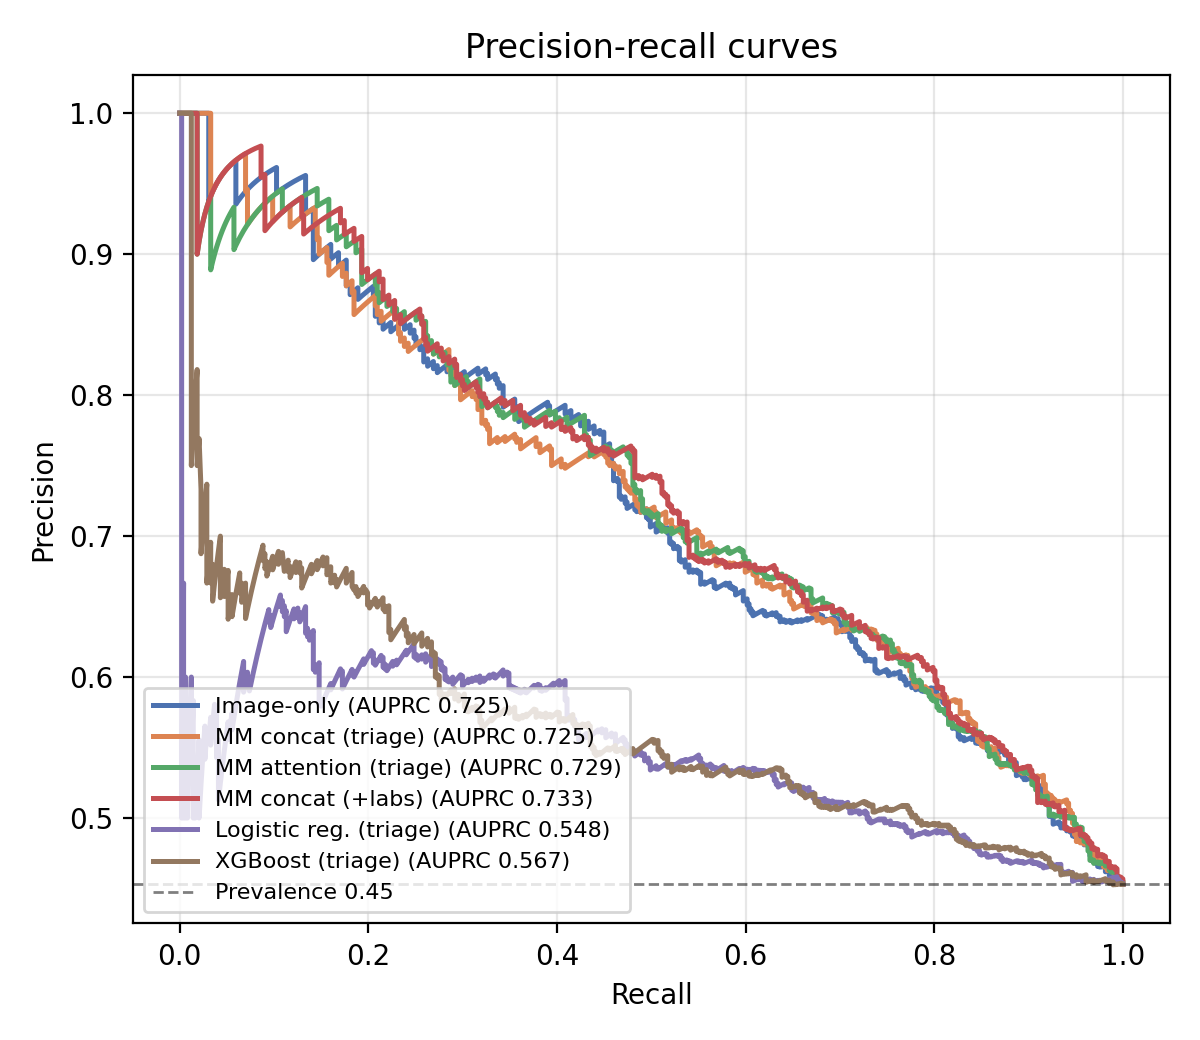
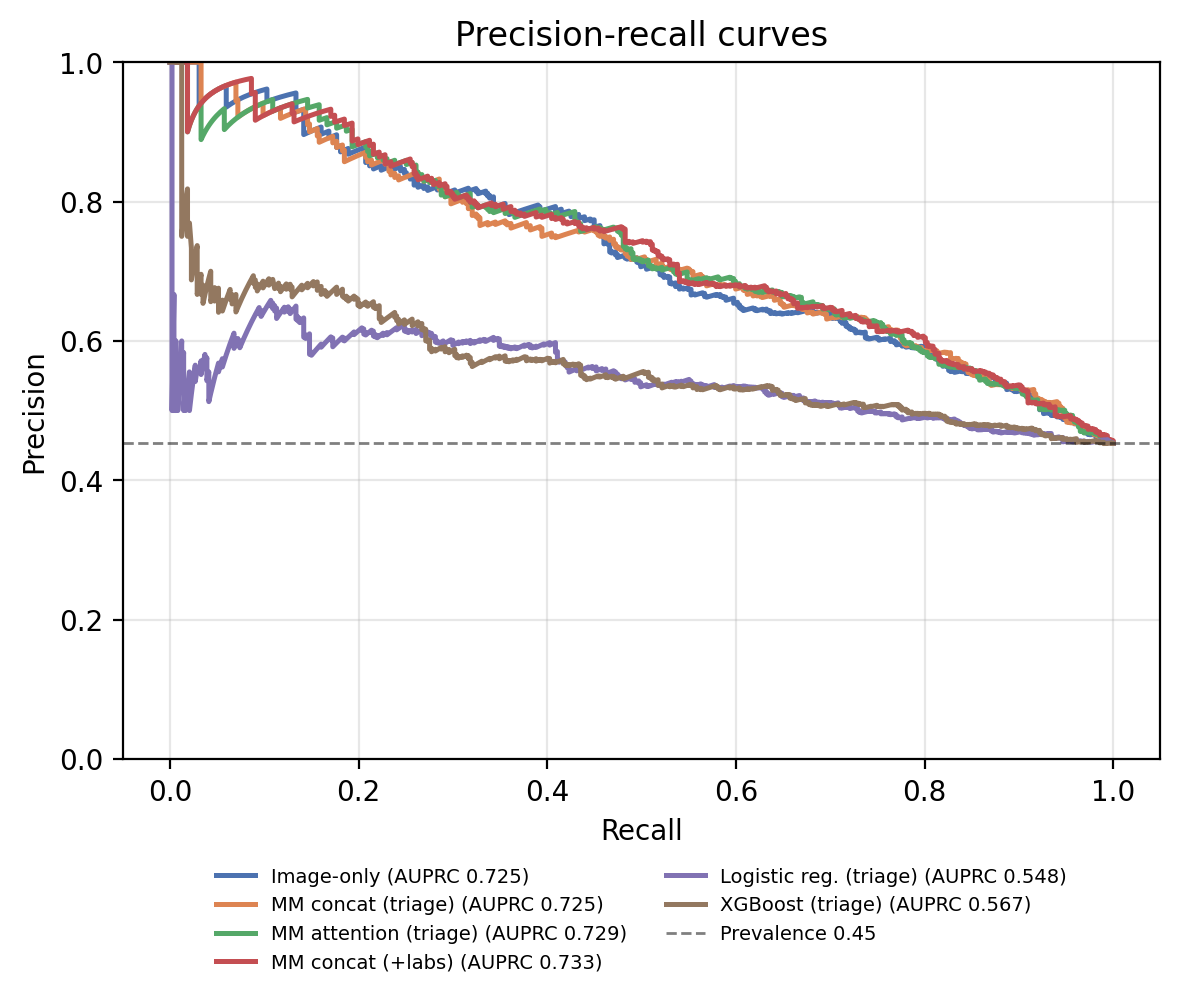
fix layout: cohort table to full-width two-panel (no overflow); PR legend below plot (no curve overlap)

Changed region(s): [[0.0, 0.0, 1.0, 0.992]]

diff --git a/manuscript/manuscript.tex b/manuscript/manuscript.tex
@@ -257,39 +257,48 @@ substantial Black and Hispanic representation), the near-even PA/AP view split, 
 the triage vital-sign distributions with their missingness rates (3--8\% per vital),
 which motivate the per-vital missingness indicators.
 
-\begin{table}[t]
+\begin{table*}[t]
 \centering
 \caption{Cohort characteristics. Splits are patient-level and temporally ordered;
 demographic and vital-sign statistics are for the test split.}
 \label{tab:cohort}
 \footnotesize
+\begin{minipage}[t]{0.46\textwidth}\centering
 \begin{tabular}{@{}lc@{}}
 \toprule
 Characteristic & Value \\
 \midrule
 \multicolumn{2}{@{}l}{\emph{Splits: studies / patients / prevalence}}\\
-\quad Train      & 7{,}144 / 6{,}045 / 46.9\% \\
-\quad Validation & 930 / 787 / 48.8\% \\
-\quad Test       & 1{,}080 / 890 / 45.4\% \\
+Train      & 7{,}144 / 6{,}045 / 46.9\% \\
+Validation & 930 / 787 / 48.8\% \\
+Test       & 1{,}080 / 890 / 45.4\% \\
 \midrule
 \multicolumn{2}{@{}l}{\emph{Test-set demographics}}\\
-\quad Age, mean (median) & 64 (65) \\
-\quad Female & 55.0\% \\
-\quad White / Black / Hispanic / Asian / Other & 678 / 258 / 71 / 36 / 37 \\
-\quad View: PA / AP & 56.8\% / 43.2\% \\
-\midrule
-\multicolumn{2}{@{}l}{\emph{Test-set triage vitals: mean$\pm$SD (\% missing)}}\\
-\quad Temperature (\textdegree{}F) & 98.5$\pm$1.4~(5.9\%) \\
-\quad Heart rate (bpm)             & 87.7$\pm$19.6~(3.3\%) \\
-\quad Respiratory rate (/min)      & 18.6$\pm$3.5~(4.5\%) \\
-\quad SpO$_2$ (\%)                 & 97.4$\pm$3.6~(4.8\%) \\
-\quad Systolic BP (mmHg)           & 135$\pm$24~(4.0\%) \\
-\quad Diastolic BP (mmHg)          & 73$\pm$16~(4.3\%) \\
-\quad Pain (0--10)                 & 3.8$\pm$4.3~(8.2\%) \\
-\quad Acuity (ESI 1--5)            & 2.3$\pm$0.7~(1.2\%) \\
+Age, mean (median) & 64 (65) \\
+Female & 55.0\% \\
+White / Black / Hispanic & 678 / 258 / 71 \\
+Asian / Other & 36 / 37 \\
+View: PA / AP & 56.8\% / 43.2\% \\
 \bottomrule
 \end{tabular}
-\end{table}
+\end{minipage}\hfill
+\begin{minipage}[t]{0.50\textwidth}\centering
+\begin{tabular}{@{}lc@{}}
+\toprule
+Triage vital (test set) & mean$\pm$SD (\% missing) \\
+\midrule
+Temperature (\textdegree{}F) & 98.5$\pm$1.4~(5.9\%) \\
+Heart rate (bpm)             & 87.7$\pm$19.6~(3.3\%) \\
+Respiratory rate (/min)      & 18.6$\pm$3.5~(4.5\%) \\
+SpO$_2$ (\%)                 & 97.4$\pm$3.6~(4.8\%) \\
+Systolic BP (mmHg)           & 135$\pm$24~(4.0\%) \\
+Diastolic BP (mmHg)          & 73$\pm$16~(4.3\%) \\
+Pain (0--10)                 & 3.8$\pm$4.3~(8.2\%) \\
+Acuity (ESI 1--5)            & 2.3$\pm$0.7~(1.2\%) \\
+\bottomrule
+\end{tabular}
+\end{minipage}
+\end{table*}
 
 \subsection{Time-safety and the patient-level temporal split}
 \label{subsec:timesafety}

diff --git a/scripts/analysis/make_thesis_style_figures.py b/scripts/analysis/make_thesis_style_figures.py
@@ -81,9 +81,11 @@ def fig_pr(preds):
         pr, rc, _ = precision_recall_curve(y, p)
         ax.plot(rc, pr, color=COLORS[name], lw=1.8, label=f"{name} (AUPRC {average_precision_score(y,p):.3f})")
     ax.axhline(prev, color="k", ls="--", lw=1, alpha=0.5, label=f"Prevalence {prev:.2f}")
-    ax.set_xlabel("Recall"); ax.set_ylabel("Precision")
-    ax.set_title("Precision-recall curves"); ax.legend(fontsize=8, loc="lower left"); ax.grid(alpha=0.3)
-    fig.tight_layout(); fig.savefig(OUT / "fig8_pr.png", dpi=200); plt.close(fig)
+    ax.set_xlabel("Recall"); ax.set_ylabel("Precision"); ax.set_ylim(0.0, 1.0)
+    ax.set_title("Precision-recall curves")
+    ax.legend(fontsize=7, loc="upper center", bbox_to_anchor=(0.5, -0.13), ncol=2, frameon=False)
+    ax.grid(alpha=0.3)
+    fig.tight_layout(); fig.savefig(OUT / "fig8_pr.png", dpi=200, bbox_inches="tight"); plt.close(fig)
 
 
 def fig_reliability(preds):